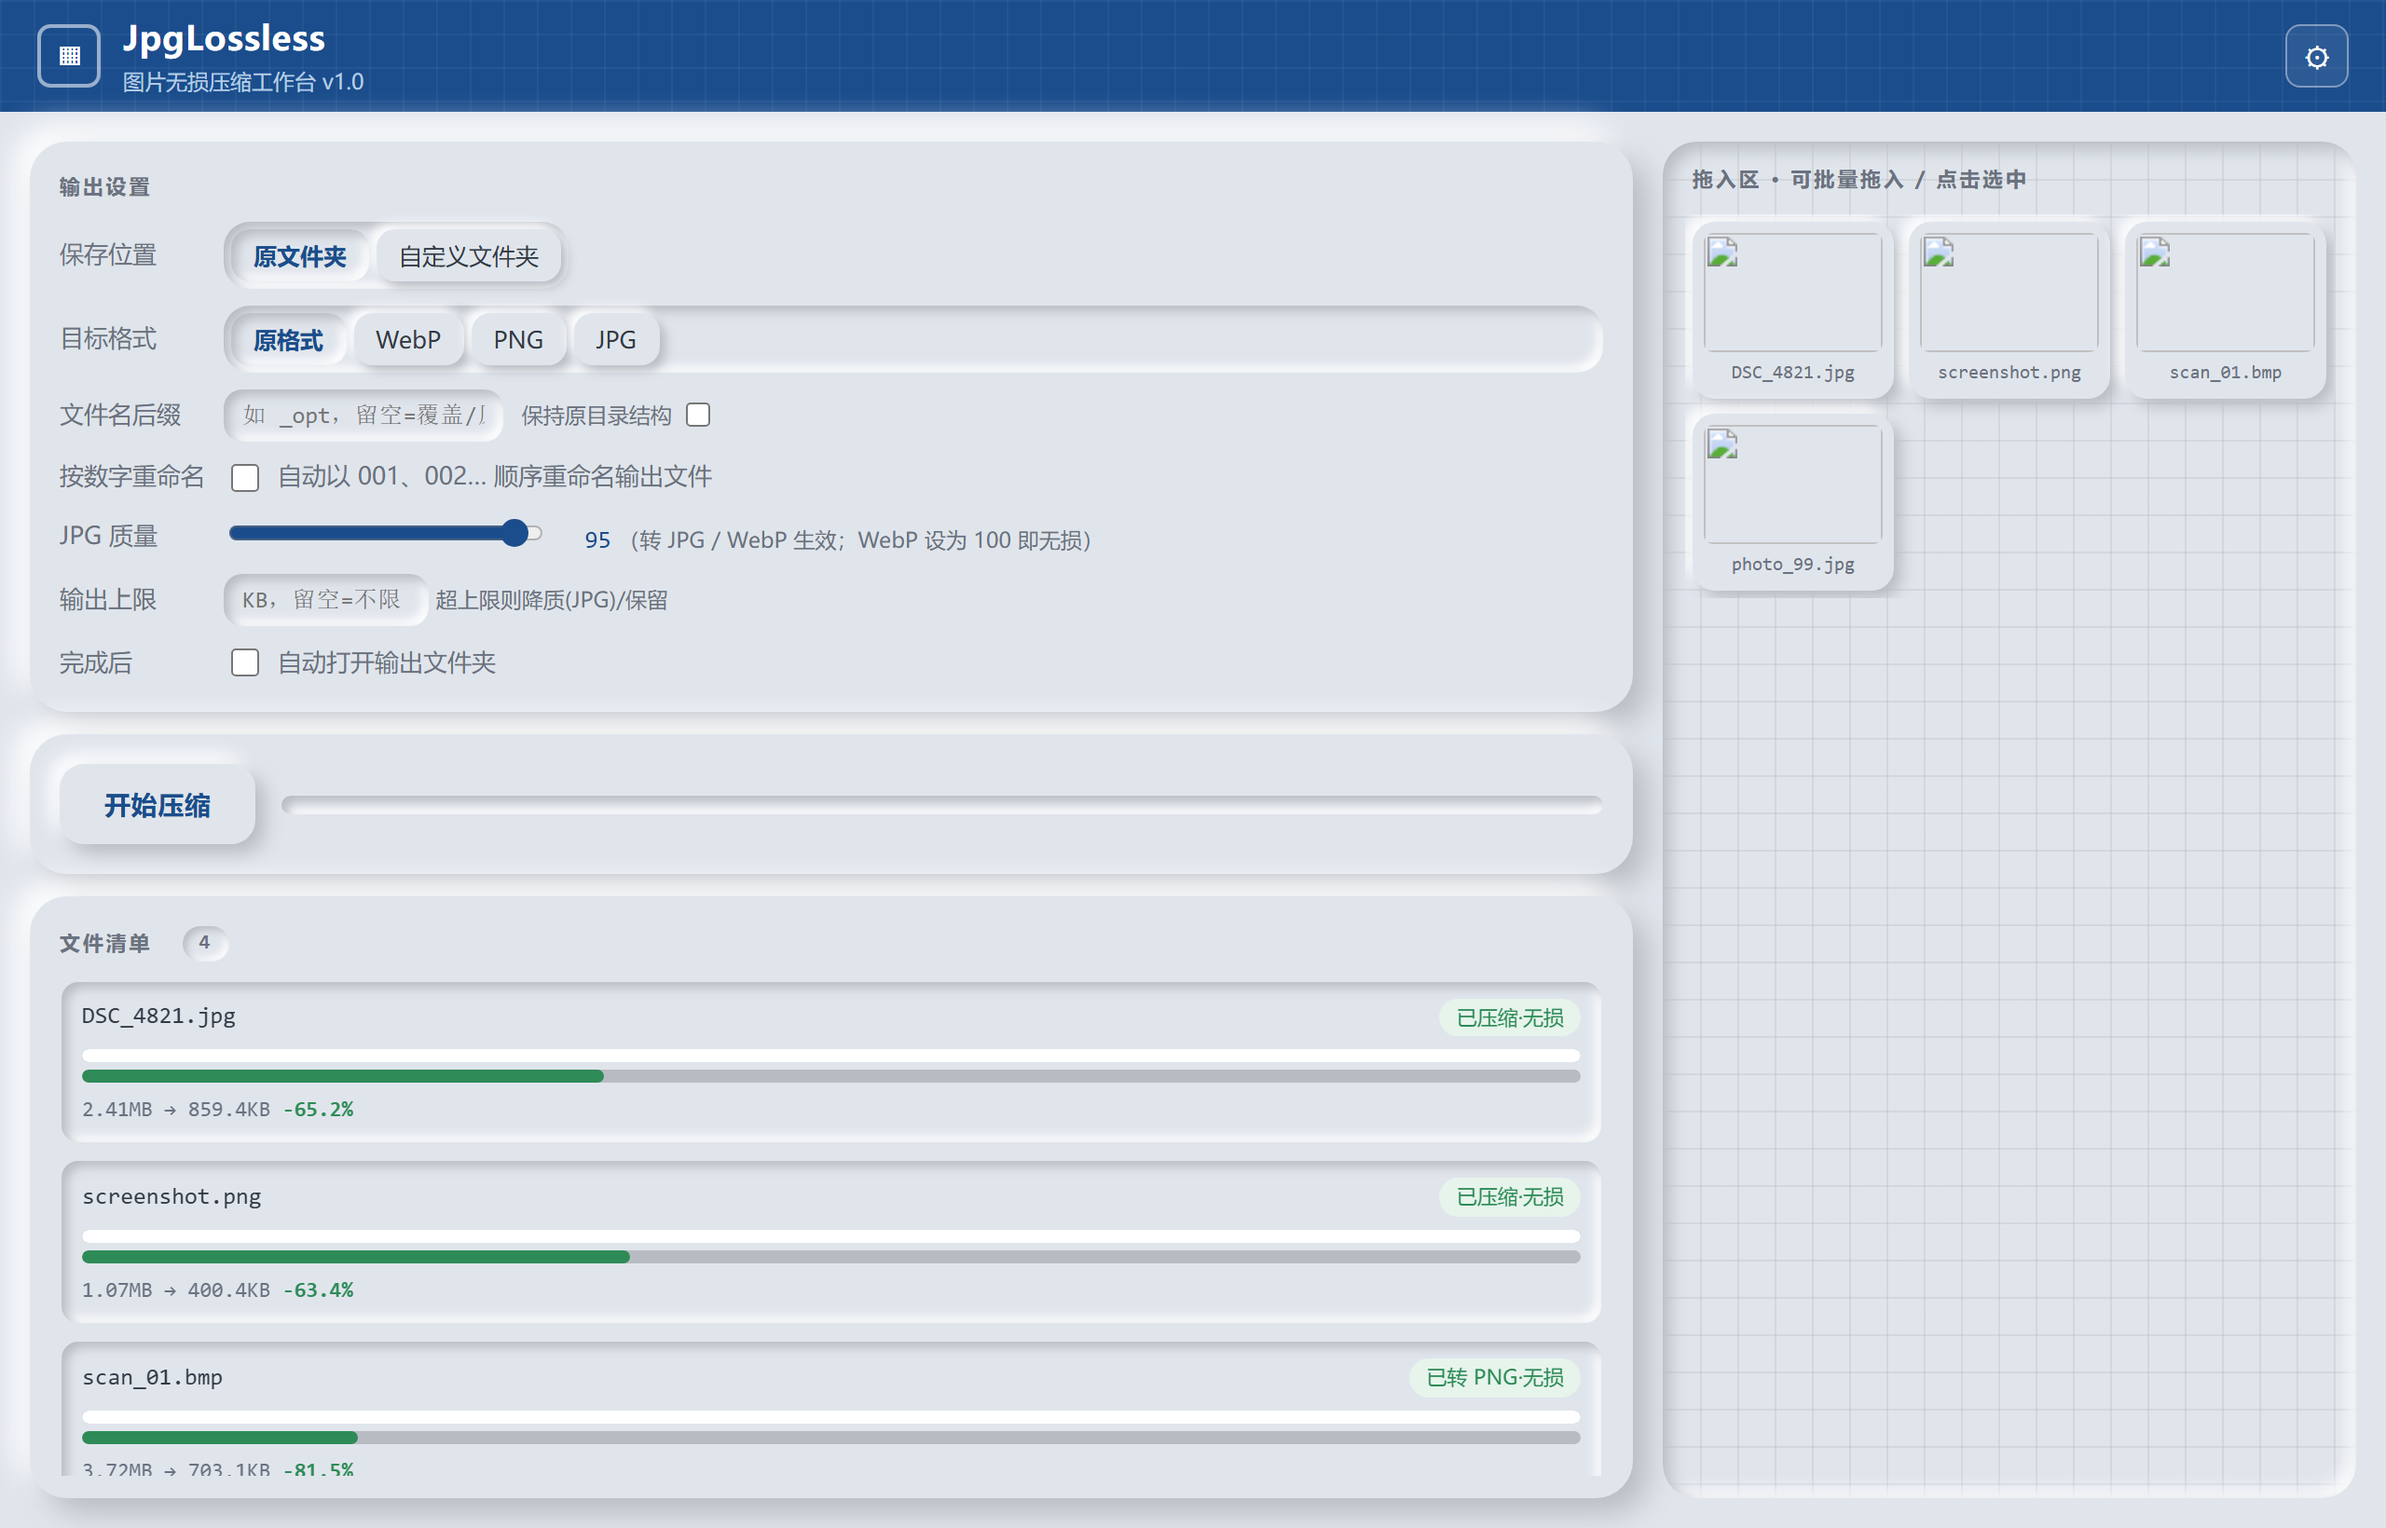
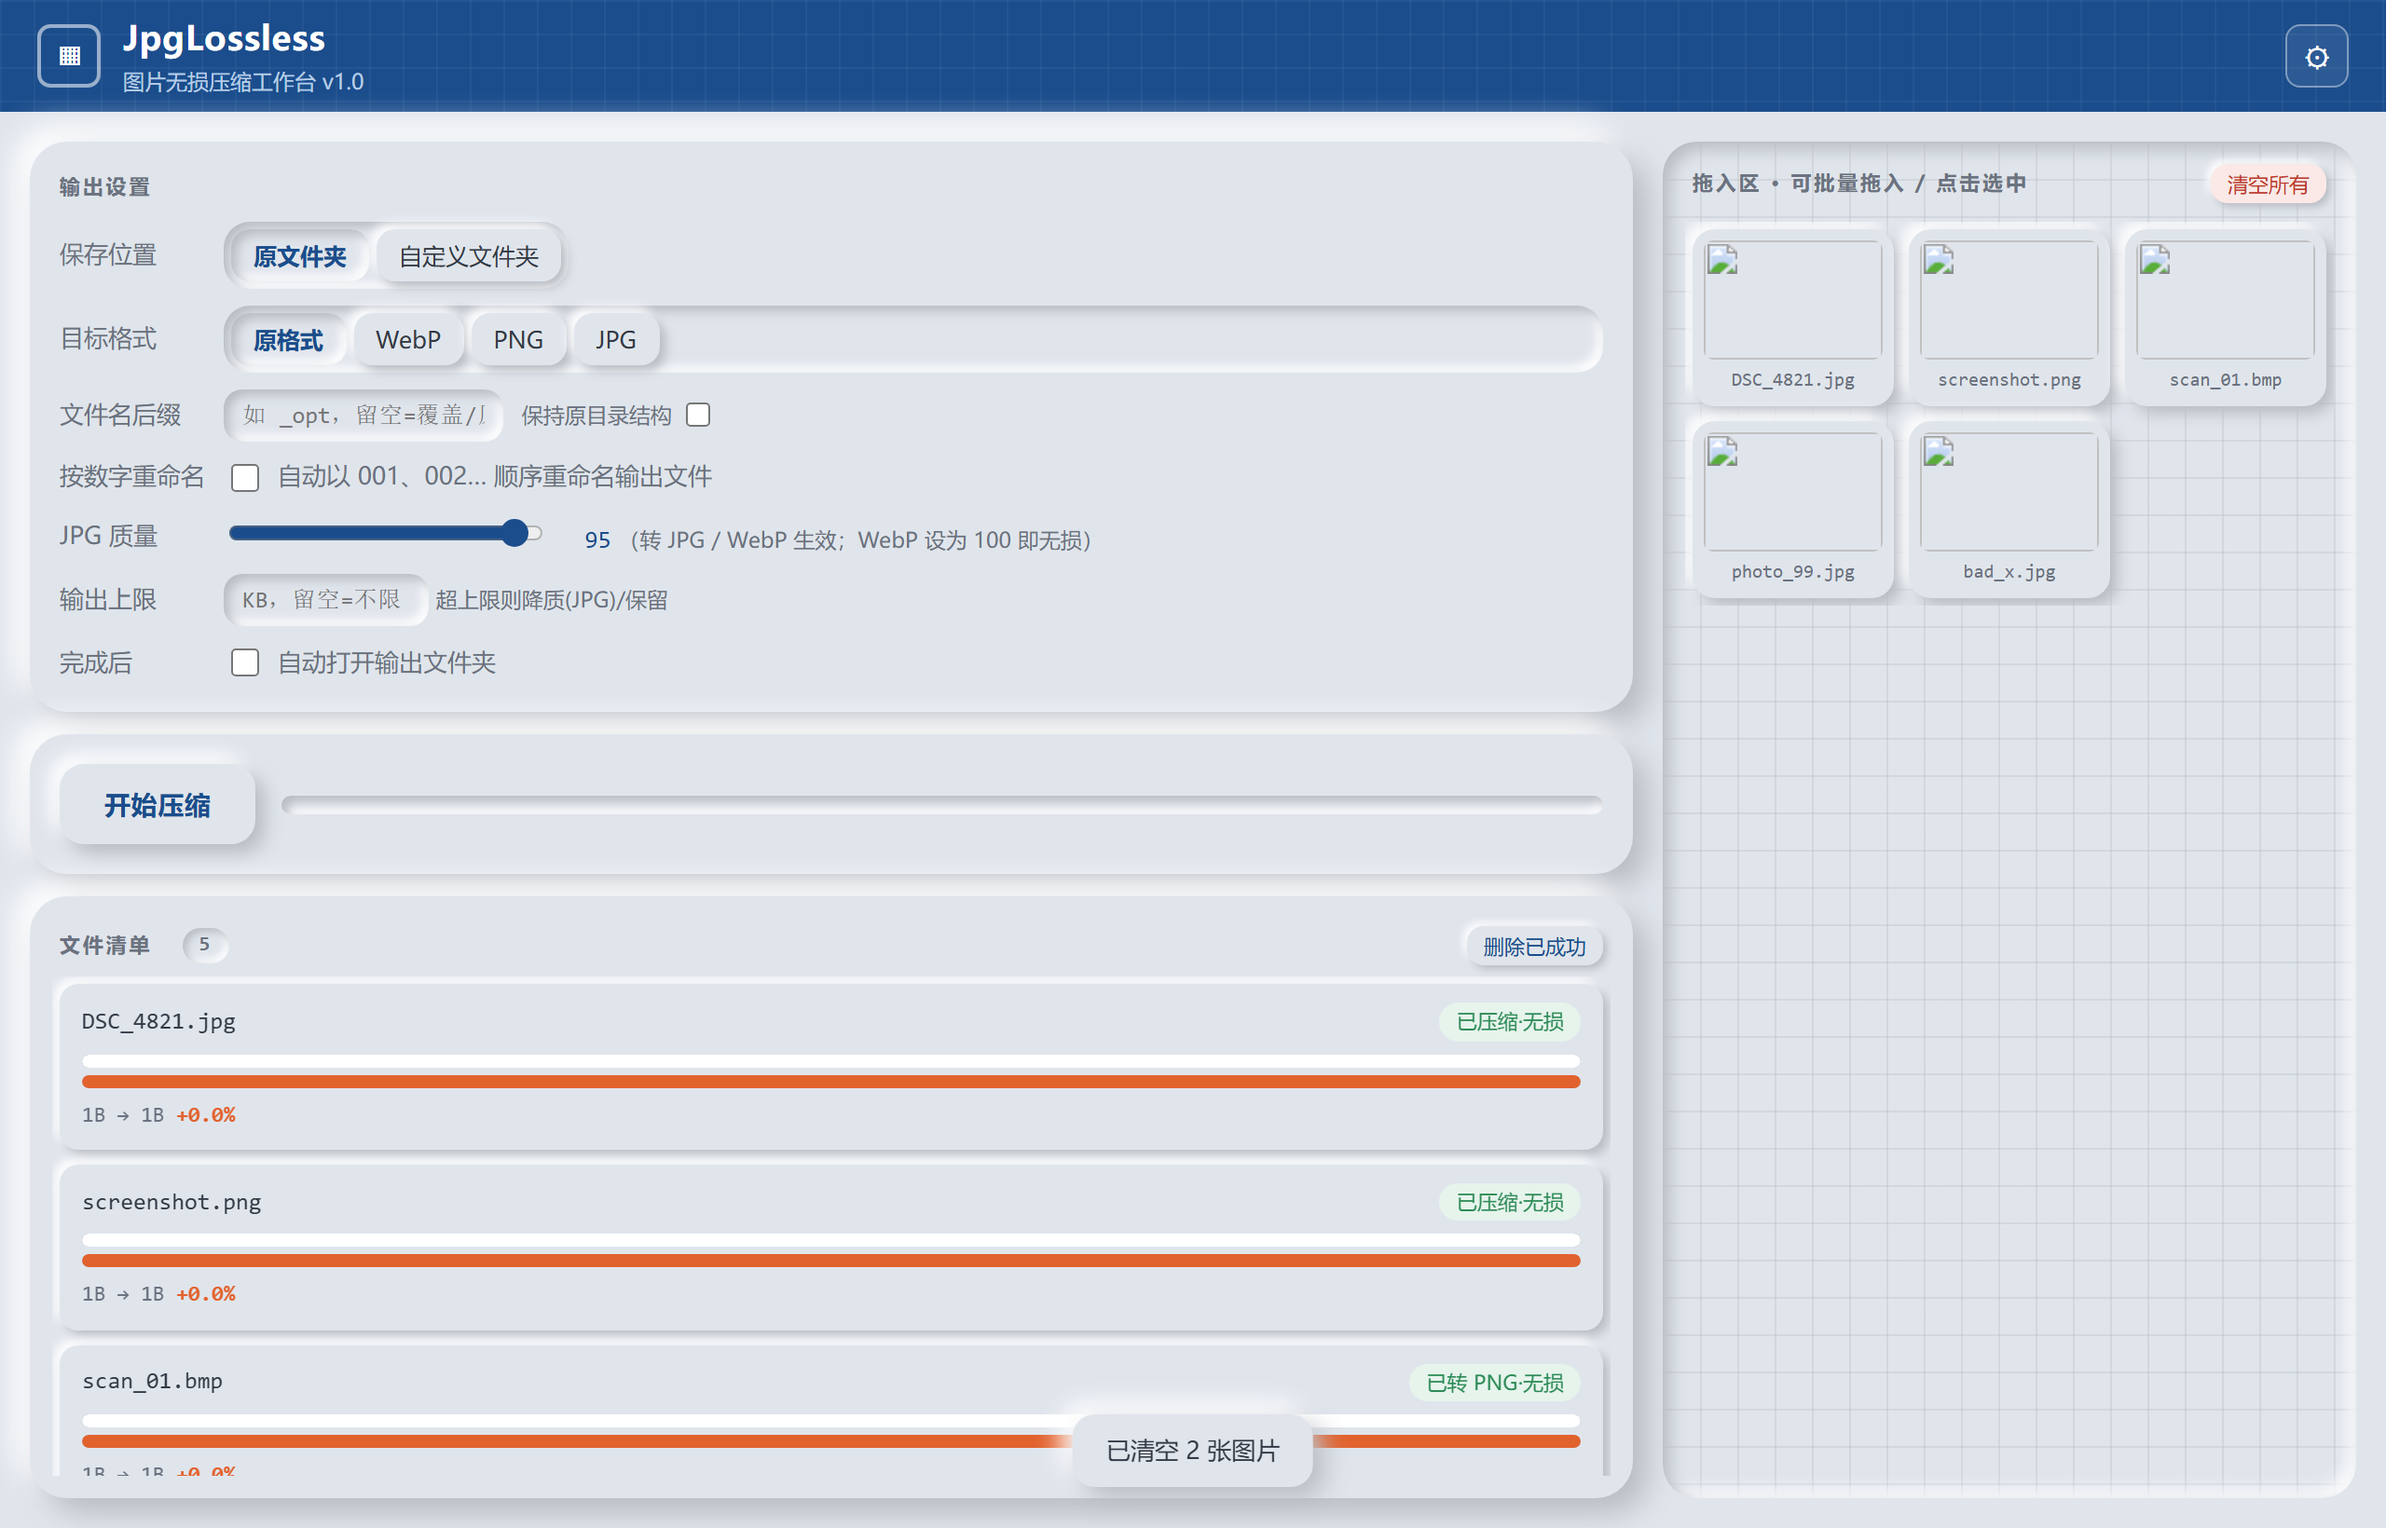
feat(web): 文件清单删除已成功按钮、拖入区清空按钮、报错可复制、修复批量拖入失败

diff --git a/web/index.html b/web/index.html
@@ -103,6 +103,12 @@
     box-shadow:3px 3px 6px var(--neu-dark), -3px -3px 6px var(--neu-light); transition:box-shadow .15s}
   .ghost-btn:hover{box-shadow:1px 1px 3px var(--neu-dark), -1px -1px 3px var(--neu-light); color:var(--blue)}
   .ghost-btn:active{box-shadow:inset 3px 3px 6px var(--neu-dark), inset -3px -3px 6px var(--neu-light)}
+  .mini-btn{margin-left:auto; border:0; background:var(--soft); border-radius:9px; padding:3px 9px;
+    font-size:11px; cursor:pointer; color:var(--blue); white-space:nowrap;
+    box-shadow:2px 2px 4px var(--neu-dark), -2px -2px 4px var(--neu-light); transition:all .15s}
+  .mini-btn:hover{color:#fff; background:var(--blue)}
+  .mini-btn.danger{color:var(--err); background:#FBE9E7}
+  .mini-btn.danger:hover{color:#fff; background:var(--err)}
   input[type=range]{width:170px; accent-color:var(--blue)}
   .qval{font-family:var(--mono); color:var(--blue); width:30px; display:inline-block; text-align:right}
   .check{display:flex; align-items:center; gap:7px; cursor:pointer; color:var(--ink)}
@@ -114,6 +120,7 @@
   .file-row{
     border:1px solid var(--line-soft); border-radius:10px; padding:9px 11px; margin-bottom:8px;
     transition:border-color .15s, box-shadow .15s; cursor:pointer; background:var(--surface);
+    user-select:text;
   }
   .file-row:hover{border-color:#C7D2E0}
   .file-row.sel{border-color:var(--blue); box-shadow:0 0 0 3px rgba(27,77,140,.12)}
@@ -362,7 +369,8 @@
       </div>
 
       <div class="panel files" id="filePanel">
-        <div class="panel-h">文件清单 <span class="cnt" id="count">0</span></div>
+        <div class="panel-h">文件清单 <span class="cnt" id="count">0</span>
+          <button class="mini-btn" id="delOkBtn" title="删除已成功压缩的图片，仅保留未成功压缩的">删除已成功</button></div>
         <div class="file-list" id="fileList">
           <div class="empty">还没有文件。把图片拖到右侧，或点「选择文件」。</div>
         </div>
@@ -371,7 +379,8 @@
 
     <aside class="right">
       <div class="panel dropzone" id="dropzone">
-        <div class="panel-h" style="padding:0 4px">拖入区 · 可批量拖入 / 点击选中</div>
+        <div class="panel-h" style="padding:0 4px">拖入区 · 可批量拖入 / 点击选中
+          <button class="mini-btn danger" id="clearBtn" title="清空拖入区所有图片">清空所有</button></div>
         <div class="drop-hint" id="dropHint">把图片或文件夹拖到 <b>这里</b><br>
           <span style="font-size:11.5px">也可点下方按钮选择（列表/缩略图右键可删除）</span>
           <div style="margin-top:12px; display:flex; gap:8px; justify-content:center">
@@ -538,6 +547,19 @@ async function removeFile(src){
   toast('已移除 1 个文件');
 }
 
+// 按条件批量删除（删除已成功压缩 / 清空全部）
+async function removeByFilter(pred,msg){
+  const targets=files.filter(pred);
+  if(!targets.length){ toast('没有符合条件的图片'); return; }
+  for(const f of targets){
+    files=files.filter(x=>x.src!==f.src);
+    try{ if(api&&api.remove_file) await api.remove_file(f.src); }catch(_){}
+  }
+  if(selected && !files.some(x=>x.src===selected)) selected=null;
+  renderList(); renderThumbs();
+  toast((msg||'已删除 {n} 个图片').replace('{n}', targets.length));
+}
+
 // 段控按钮
 function bindSeg(id,key){
   const seg=document.getElementById(id);
@@ -631,15 +653,32 @@ async function poll(){
   }
 }
 
-// 拖放
+// 拖放：整个窗口都可作为放置区，避免“先添加一批后再拖入失败”的问题
+// （WebView2 有时只在 dataTransfer.items 暴露文件，故优先用 items.getAsFile 回退 files）
 const dz=document.getElementById('dropzone');
-['dragenter','dragover'].forEach(ev=>dz.addEventListener(ev,e=>{e.preventDefault();dz.classList.add('drag');}));
-['dragleave','drop'].forEach(ev=>dz.addEventListener(ev,e=>{e.preventDefault();dz.classList.remove('drag');}));
-dz.addEventListener('drop',async e=>{
-  const items=e.dataTransfer.files;
-  if(!items||!items.length)return;
+function _hasFiles(e){
+  if(!e.dataTransfer||!e.dataTransfer.types) return false;
+  return Array.from(e.dataTransfer.types).indexOf('Files')>=0;
+}
+function _gatherFiles(dt){
+  try{
+    if(dt.items && dt.items.length){
+      const arr=[];
+      for(const it of dt.items){ if(it.kind==='file'){ const f=it.getAsFile(); if(f) arr.push(f); } }
+      if(arr.length) return arr;
+    }
+  }catch(_){}
+  return dt.files? Array.from(dt.files):[];
+}
+document.addEventListener('dragenter',e=>{ if(!_hasFiles(e))return; e.preventDefault(); dz.classList.add('drag'); });
+document.addEventListener('dragover',e=>{ if(!_hasFiles(e))return; e.preventDefault(); e.dataTransfer.dropEffect='copy'; dz.classList.add('drag'); });
+document.addEventListener('dragleave',e=>{ if(!_hasFiles(e))return; e.preventDefault(); if(e.clientX<=0||e.clientY<=0) dz.classList.remove('drag'); });
+document.addEventListener('drop',async e=>{
+  if(!_hasFiles(e))return; e.preventDefault(); dz.classList.remove('drag');
+  const dropped=_gatherFiles(e.dataTransfer);
+  if(!dropped.length) return;
   const payload=[];
-  for(const file of items){
+  for(const file of dropped){
     if(!/\.(jpe?g|png|jfif)$/i.test(file.name))continue;
     const b64=await new Promise(res=>{const r=new FileReader();r.onload=()=>res(r.result.split(',')[1]);r.readAsDataURL(file);});
     payload.push({name:file.name,data:b64});
@@ -665,6 +704,9 @@ async function init(){
   document.getElementById('startBtn').onclick=start;
   document.getElementById('pickFiles').onclick=chooseFiles;
   document.getElementById('pickDirs').onclick=chooseDirs;
+  document.getElementById('delOkBtn').onclick=()=>removeByFilter(
+    f=>/已压缩|已生成|无损/.test(f.status||''), '已删除 {n} 张“成功压缩”的图片（保留未成功的）');
+  document.getElementById('clearBtn').onclick=()=>removeByFilter(()=>true, '已清空 {n} 张图片');
 
   // 还原已保存的设置到界面
   document.getElementById('suffix').value=settings.suffix||'';
